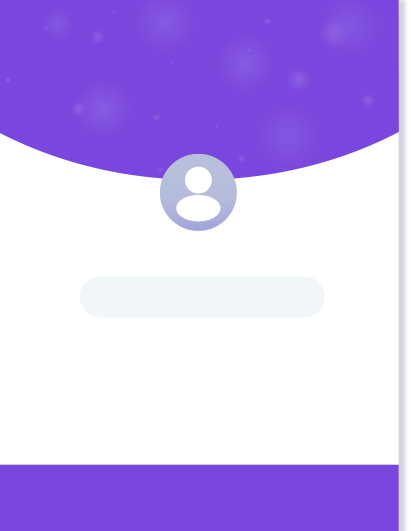
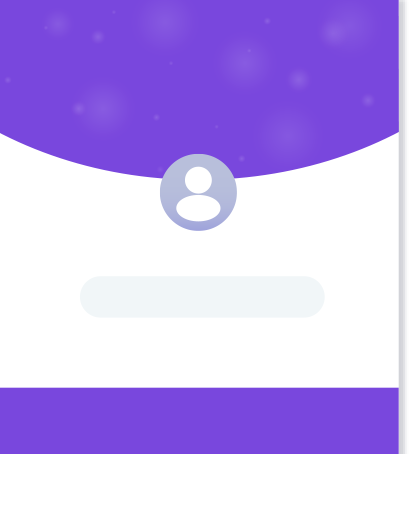
OrangeColors

Changed region(s): [[0.0, 0.7232, 0.9927, 1.0]]

diff --git a/src/kikisrestaurantmanager/Dialogs/AuthentificationDialog.java b/src/kikisrestaurantmanager/Dialogs/AuthentificationDialog.java
@@ -53,37 +53,32 @@ public class AuthentificationDialog extends javax.swing.JDialog {
     // <editor-fold defaultstate="collapsed" desc="Generated Code">//GEN-BEGIN:initComponents
     private void initComponents() {
 
-        labelWrongPassword = new javax.swing.JLabel();
-        loginField = new javax.swing.JTextField();
-        passwordField = new javax.swing.JPasswordField();
-        jLabel8 = new javax.swing.JLabel();
         jLabel4 = new javax.swing.JLabel();
         jLabel5 = new javax.swing.JLabel();
         jPanel1 = new javax.swing.JPanel();
-        jLabel1 = new javax.swing.JLabel();
+        passwordField = new javax.swing.JPasswordField();
+        labelWrongPassword = new javax.swing.JLabel();
         jLabel2 = new javax.swing.JLabel();
+        jLabel8 = new javax.swing.JLabel();
         jLabel3 = new javax.swing.JLabel();
 
         setDefaultCloseOperation(javax.swing.WindowConstants.DISPOSE_ON_CLOSE);
         setSize(new java.awt.Dimension(399, 399));
         getContentPane().setLayout(new org.netbeans.lib.awtextra.AbsoluteLayout());
 
-        labelWrongPassword.setFont(new java.awt.Font("Montserrat", 0, 18)); // NOI18N
-        labelWrongPassword.setForeground(new java.awt.Color(255, 99, 71));
-        labelWrongPassword.setHorizontalAlignment(javax.swing.SwingConstants.CENTER);
-        labelWrongPassword.setText("Login et mot de passe incorrects");
-        getContentPane().add(labelWrongPassword, new org.netbeans.lib.awtextra.AbsoluteConstraints(-4, 420, 400, 20));
+        jLabel4.setFont(new java.awt.Font("Source Sans Pro", 0, 22)); // NOI18N
+        jLabel4.setForeground(new java.awt.Color(255, 255, 255));
+        jLabel4.setHorizontalAlignment(javax.swing.SwingConstants.CENTER);
+        jLabel4.setText("Connectez-vous");
+        getContentPane().add(jLabel4, new org.netbeans.lib.awtextra.AbsoluteConstraints(0, 90, 400, -1));
 
-        loginField.setBackground(new java.awt.Color(242, 246, 249));
-        loginField.setFont(new java.awt.Font("Montserrat", 0, 15)); // NOI18N
-        loginField.setForeground(new java.awt.Color(54, 33, 89));
-        loginField.setBorder(null);
-        loginField.addActionListener(new java.awt.event.ActionListener() {
-            public void actionPerformed(java.awt.event.ActionEvent evt) {
-                loginFieldActionPerformed(evt);
-            }
-        });
-        getContentPane().add(loginField, new org.netbeans.lib.awtextra.AbsoluteConstraints(100, 282, 200, 30));
+        jLabel5.setFont(new java.awt.Font("Source Sans Pro", 0, 36)); // NOI18N
+        jLabel5.setForeground(new java.awt.Color(255, 255, 255));
+        jLabel5.setHorizontalAlignment(javax.swing.SwingConstants.CENTER);
+        jLabel5.setText("MANAGER MODE");
+        getContentPane().add(jLabel5, new org.netbeans.lib.awtextra.AbsoluteConstraints(0, 40, 400, -1));
+
+        jPanel1.setBackground(new java.awt.Color(255, 255, 255));
 
         passwordField.setBackground(new java.awt.Color(242, 246, 249));
         passwordField.setFont(new java.awt.Font("Tahoma", 0, 15)); // NOI18N
@@ -94,7 +89,15 @@ public class AuthentificationDialog extends javax.swing.JDialog {
                 passwordFieldActionPerformed(evt);
             }
         });
-        getContentPane().add(passwordField, new org.netbeans.lib.awtextra.AbsoluteConstraints(100, 359, 200, 40));
+
+        labelWrongPassword.setFont(new java.awt.Font("Montserrat", 0, 18)); // NOI18N
+        labelWrongPassword.setForeground(new java.awt.Color(255, 99, 71));
+        labelWrongPassword.setHorizontalAlignment(javax.swing.SwingConstants.CENTER);
+        labelWrongPassword.setText("Mot de passe incorrecte");
+
+        jLabel2.setFont(new java.awt.Font("Montserrat", 0, 24)); // NOI18N
+        jLabel2.setForeground(new java.awt.Color(54, 33, 89));
+        jLabel2.setText("Password :");
 
         jLabel8.setFont(new java.awt.Font("Source Sans Pro", 0, 36)); // NOI18N
         jLabel8.setForeground(new java.awt.Color(255, 255, 255));
@@ -110,44 +113,45 @@ public class AuthentificationDialog extends javax.swing.JDialog {
                 jLabel8KeyPressed(evt);
             }
         });
-        getContentPane().add(jLabel8, new org.netbeans.lib.awtextra.AbsoluteConstraints(0, 460, 400, 70));
-
-        jLabel4.setFont(new java.awt.Font("Source Sans Pro", 0, 22)); // NOI18N
-        jLabel4.setForeground(new java.awt.Color(255, 255, 255));
-        jLabel4.setHorizontalAlignment(javax.swing.SwingConstants.CENTER);
-        jLabel4.setText("Connectez-vous");
-        getContentPane().add(jLabel4, new org.netbeans.lib.awtextra.AbsoluteConstraints(0, 90, 400, -1));
-
-        jLabel5.setFont(new java.awt.Font("Source Sans Pro", 0, 36)); // NOI18N
-        jLabel5.setForeground(new java.awt.Color(255, 255, 255));
-        jLabel5.setHorizontalAlignment(javax.swing.SwingConstants.CENTER);
-        jLabel5.setText("MANAGER MODE");
-        getContentPane().add(jLabel5, new org.netbeans.lib.awtextra.AbsoluteConstraints(0, 40, 400, -1));
-
-        jPanel1.setBackground(new java.awt.Color(255, 255, 255));
-        jPanel1.setLayout(new org.netbeans.lib.awtextra.AbsoluteLayout());
-
-        jLabel1.setFont(new java.awt.Font("Montserrat", 0, 24)); // NOI18N
-        jLabel1.setForeground(new java.awt.Color(54, 33, 89));
-        jLabel1.setText("Login :");
-        jPanel1.add(jLabel1, new org.netbeans.lib.awtextra.AbsoluteConstraints(80, 240, -1, -1));
-
-        jLabel2.setFont(new java.awt.Font("Montserrat", 0, 24)); // NOI18N
-        jLabel2.setForeground(new java.awt.Color(54, 33, 89));
-        jLabel2.setText("Password :");
-        jPanel1.add(jLabel2, new org.netbeans.lib.awtextra.AbsoluteConstraints(80, 325, 130, 30));
 
         jLabel3.setIcon(new javax.swing.ImageIcon(getClass().getResource("/Images/loginFixed.png"))); // NOI18N
-        jPanel1.add(jLabel3, new org.netbeans.lib.awtextra.AbsoluteConstraints(0, 0, 400, 530));
 
-        getContentPane().add(jPanel1, new org.netbeans.lib.awtextra.AbsoluteConstraints(0, 0, 399, 530));
+        javax.swing.GroupLayout jPanel1Layout = new javax.swing.GroupLayout(jPanel1);
+        jPanel1.setLayout(jPanel1Layout);
+        jPanel1Layout.setHorizontalGroup(
+            jPanel1Layout.createParallelGroup(javax.swing.GroupLayout.Alignment.LEADING)
+            .addGroup(jPanel1Layout.createSequentialGroup()
+                .addGap(80, 80, 80)
+                .addComponent(jLabel2, javax.swing.GroupLayout.PREFERRED_SIZE, 130, javax.swing.GroupLayout.PREFERRED_SIZE))
+            .addGroup(jPanel1Layout.createSequentialGroup()
+                .addGap(100, 100, 100)
+                .addComponent(passwordField, javax.swing.GroupLayout.PREFERRED_SIZE, 200, javax.swing.GroupLayout.PREFERRED_SIZE))
+            .addComponent(labelWrongPassword, javax.swing.GroupLayout.PREFERRED_SIZE, 400, javax.swing.GroupLayout.PREFERRED_SIZE)
+            .addComponent(jLabel8, javax.swing.GroupLayout.PREFERRED_SIZE, 400, javax.swing.GroupLayout.PREFERRED_SIZE)
+            .addComponent(jLabel3, javax.swing.GroupLayout.PREFERRED_SIZE, 400, javax.swing.GroupLayout.PREFERRED_SIZE)
+        );
+        jPanel1Layout.setVerticalGroup(
+            jPanel1Layout.createParallelGroup(javax.swing.GroupLayout.Alignment.LEADING)
+            .addGroup(jPanel1Layout.createSequentialGroup()
+                .addGap(240, 240, 240)
+                .addComponent(jLabel2)
+                .addGap(10, 10, 10)
+                .addComponent(passwordField, javax.swing.GroupLayout.PREFERRED_SIZE, 30, javax.swing.GroupLayout.PREFERRED_SIZE)
+                .addPreferredGap(javax.swing.LayoutStyle.ComponentPlacement.UNRELATED)
+                .addComponent(labelWrongPassword, javax.swing.GroupLayout.PREFERRED_SIZE, 59, javax.swing.GroupLayout.PREFERRED_SIZE))
+            .addGroup(jPanel1Layout.createSequentialGroup()
+                .addGap(380, 380, 380)
+                .addComponent(jLabel8, javax.swing.GroupLayout.PREFERRED_SIZE, 70, javax.swing.GroupLayout.PREFERRED_SIZE))
+            .addComponent(jLabel3, javax.swing.GroupLayout.PREFERRED_SIZE, 530, javax.swing.GroupLayout.PREFERRED_SIZE)
+        );
+
+        getContentPane().add(jPanel1, new org.netbeans.lib.awtextra.AbsoluteConstraints(0, 0, 399, 450));
 
         pack();
     }// </editor-fold>//GEN-END:initComponents
 
     private void jLabel8MousePressed(java.awt.event.MouseEvent evt) {//GEN-FIRST:event_jLabel8MousePressed
         System.out.println("Se Connecter Clicked");
-        String username = loginField.getText();
         String password = passwordField.getText();
         Employee emp = dbManager.getLoginInfos();
         if (emp == null) {
@@ -164,10 +168,6 @@ public class AuthentificationDialog extends javax.swing.JDialog {
             }
         }
     }//GEN-LAST:event_jLabel8MousePressed
-
-    private void loginFieldActionPerformed(java.awt.event.ActionEvent evt) {//GEN-FIRST:event_loginFieldActionPerformed
-        // TODO add your handling code here:
-    }//GEN-LAST:event_loginFieldActionPerformed
 
     private void passwordFieldActionPerformed(java.awt.event.ActionEvent evt) {//GEN-FIRST:event_passwordFieldActionPerformed
         // TODO add your handling code here:
@@ -219,7 +219,6 @@ public class AuthentificationDialog extends javax.swing.JDialog {
 
 
     // Variables declaration - do not modify//GEN-BEGIN:variables
-    private javax.swing.JLabel jLabel1;
     private javax.swing.JLabel jLabel2;
     private javax.swing.JLabel jLabel3;
     private javax.swing.JLabel jLabel4;
@@ -227,7 +226,6 @@ public class AuthentificationDialog extends javax.swing.JDialog {
     private javax.swing.JLabel jLabel8;
     private javax.swing.JPanel jPanel1;
     private javax.swing.JLabel labelWrongPassword;
-    private javax.swing.JTextField loginField;
     private javax.swing.JPasswordField passwordField;
     // End of variables declaration//GEN-END:variables
 }
